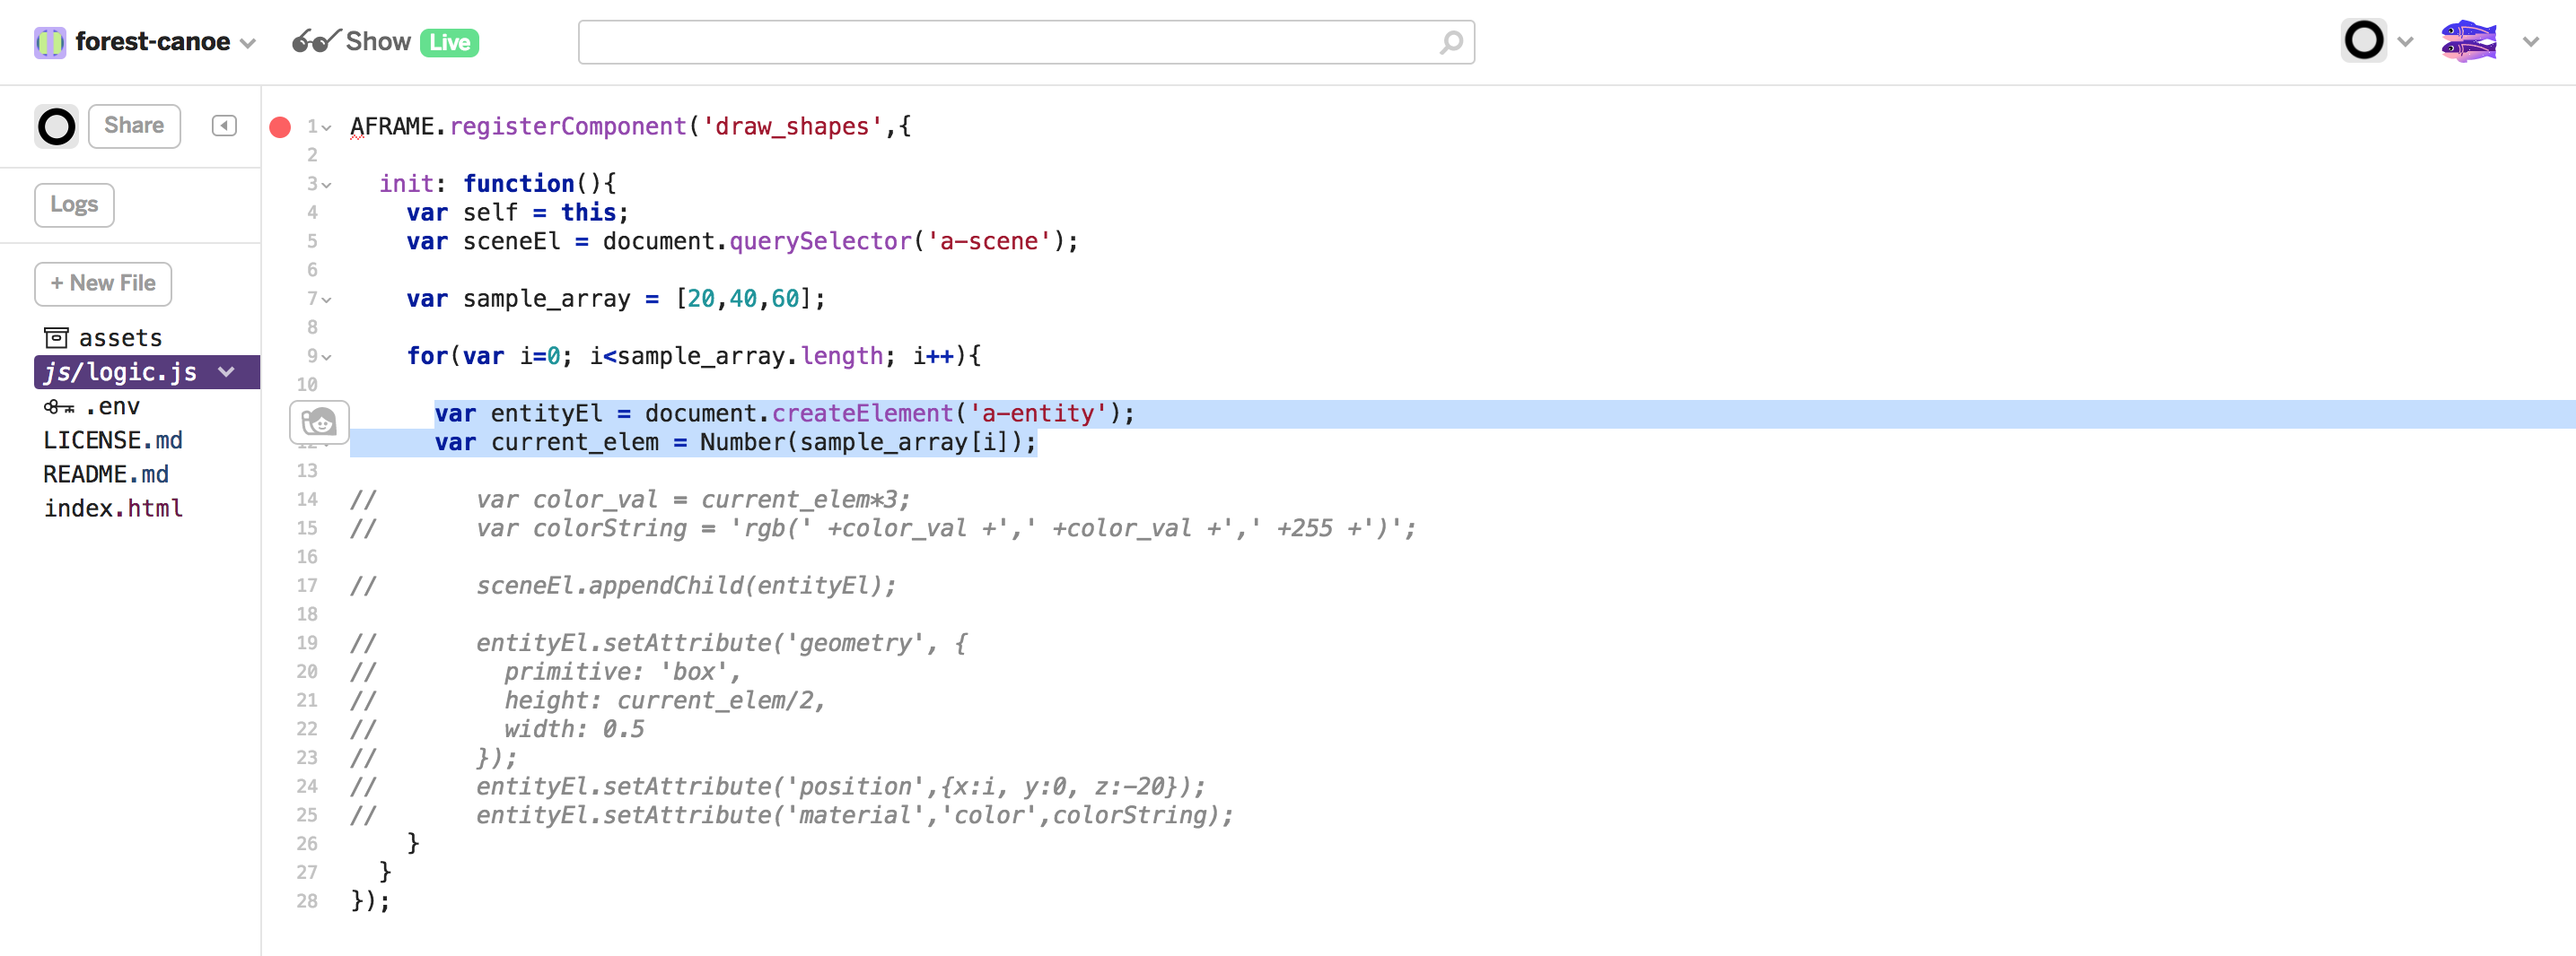
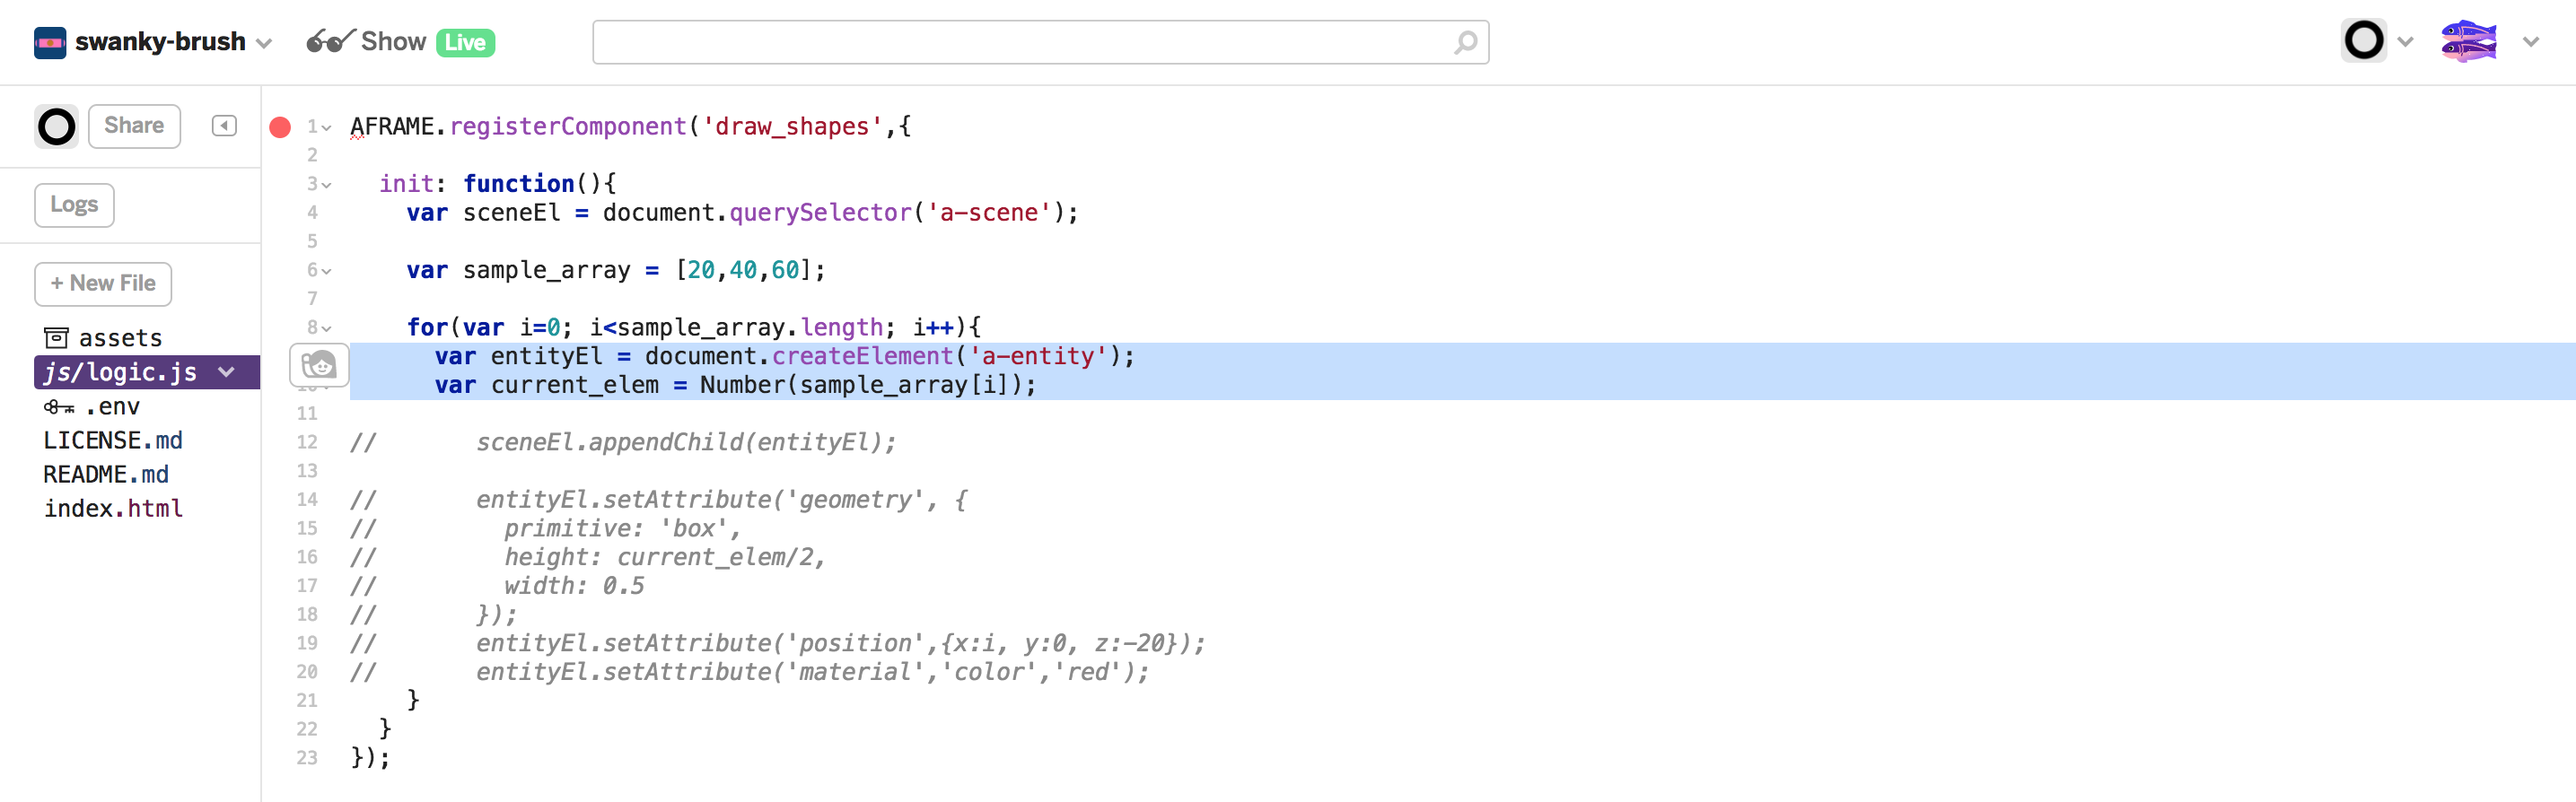
update

diff --git a/2017_Fall/Studios/05_Introduction_to_VR_with_A-Frame.md b/2017_Fall/Studios/05_Introduction_to_VR_with_A-Frame.md
@@ -4,7 +4,7 @@ In this studio, we will be exploring the world of data-driven, VR-ready shapes u
 
 ### Glitch
 
-We will be using [Glitch](https://glitch.com/) in this studio to facilitate the process of getting a web development environment up and running. Two projects exist for you to clone and edit:
+We will be using [Glitch](https://glitch.com/) in this studio to facilitate the process of getting a web development environment up and running. Three projects exist for you to clone and edit:
 
 * Getting started - Available [here](https://glitch.com/edit/#!/fir-airport)
 * (Simple) Visualizing data - Available [here](https://glitch.com/edit/#!/swanky-brush)
@@ -91,11 +91,11 @@ Cool. Even though the browser provides decent 3-D navigation, let's see what the
 
 ![JavaScript Functions](https://github.com/emilyfuhrman/datavis_design/blob/master/2017_Fall/Studios/Images/05/22_JavaScript_Functions.png)
 
-* Inside are a bunch of complex functions. Do not worry about the syntax here -- all you need to know is the following:
+* Inside are a few complex-looking functions. Do not worry about the syntax here -- all you need to know is the following:
 	* The declaration that encompasses everything starts with `AFRAME.registerComponent`. It is named `get-data`. We call this element in the HTML of the `index.html` file. 
 	* Inside this declaration is one more function: `init()`.
 	* The `init()` function is what we will be editing, which makes graphics from an array we define.
-* Inside the `drawShapes()` function is a `for-loop`, which cycles through our custom array. This loop contains a lot of commented-out code at the moment, but that code is set up to draw a new shape every time the loop runs.
+* Inside the `init()` function is a `for-loop`, which cycles through our custom array. This loop contains a lot of commented-out code at the moment, but that code is set up to draw a new shape every time the loop runs.
 
 ![Init Function](https://github.com/emilyfuhrman/datavis_design/blob/master/2017_Fall/Studios/Images/05/23_Init_Function.png)
 
@@ -103,6 +103,7 @@ Cool. Even though the browser provides decent 3-D navigation, let's see what the
 	* The first thing inside the function is a variable that grabs the overall "scene" within which we are drawing our shapes.
 	* The second thing assigns a variable name to an array we define. By assigning both of these things to variables, we can more quickly access each, and our code will be cleaner. 
 	* The third thing is a `for-loop` that cycles through the array we define. 
+* Go ahead and adjust the array values if you'd like, though keep them roughly within the same range.
 * Keep all of the code commented out for now. Right inside the `for-loop`, we are going to create some additional shortcuts to make our code cleaner.
 	* On the top line, type the following line of code: `var entityEl = document.createElement('a-entity');`. This creates a new HTML entity in our HTML document for every time the loop loops, and assigns it an accessible variable.
 	* On the next line, type the following line of code: `var current_elem = Number(sample_array[i]);`. This assigns the current value we are cycling through in the array to another accessible variable, and ensures that it is defined as a number, not a string. 
@@ -131,14 +132,17 @@ entityEl.setAttribute('geometry', {
 ![Add Attributes](https://github.com/emilyfuhrman/datavis_design/blob/master/2017_Fall/Studios/Images/05/27_Add_Attributes.png)
 
 This defines the type of primitive shape we want to draw for every row in the CSV that the loop cycles through.
-* Next, add the following additional lines of code:
+* Next, type the following additional lines of code, which set the position and color of the shapes we are drawing:
 ```
 entityEl.setAttribute('position',{x:i, y:0, z:-20});
-entityEl.setAttribute('material','color','#00FFFF');
+entityEl.setAttribute('material','color','red');
+
+![Set styles](https://github.com/emilyfuhrman/datavis_design/blob/master/2017_Fall/Studios/Images/05/29_Shapes.png)
 ```
 * Checking the `Show [Live]` tab again, something should appear! Drag your screen around to get a feel for how these 3-D shapes work.
+* As you can see, we visualized 
 
-![Array Shapes](https://github.com/emilyfuhrman/datavis_design/blob/master/2017_Fall/Studios/Images/05/28_Array_Shapes.png)
+![Array Shapes](https://github.com/emilyfuhrman/datavis_design/blob/master/2017_Fall/Studios/Images/05/29_Shapes.png)
 
 ### (Advanced) Visualizing data
 
